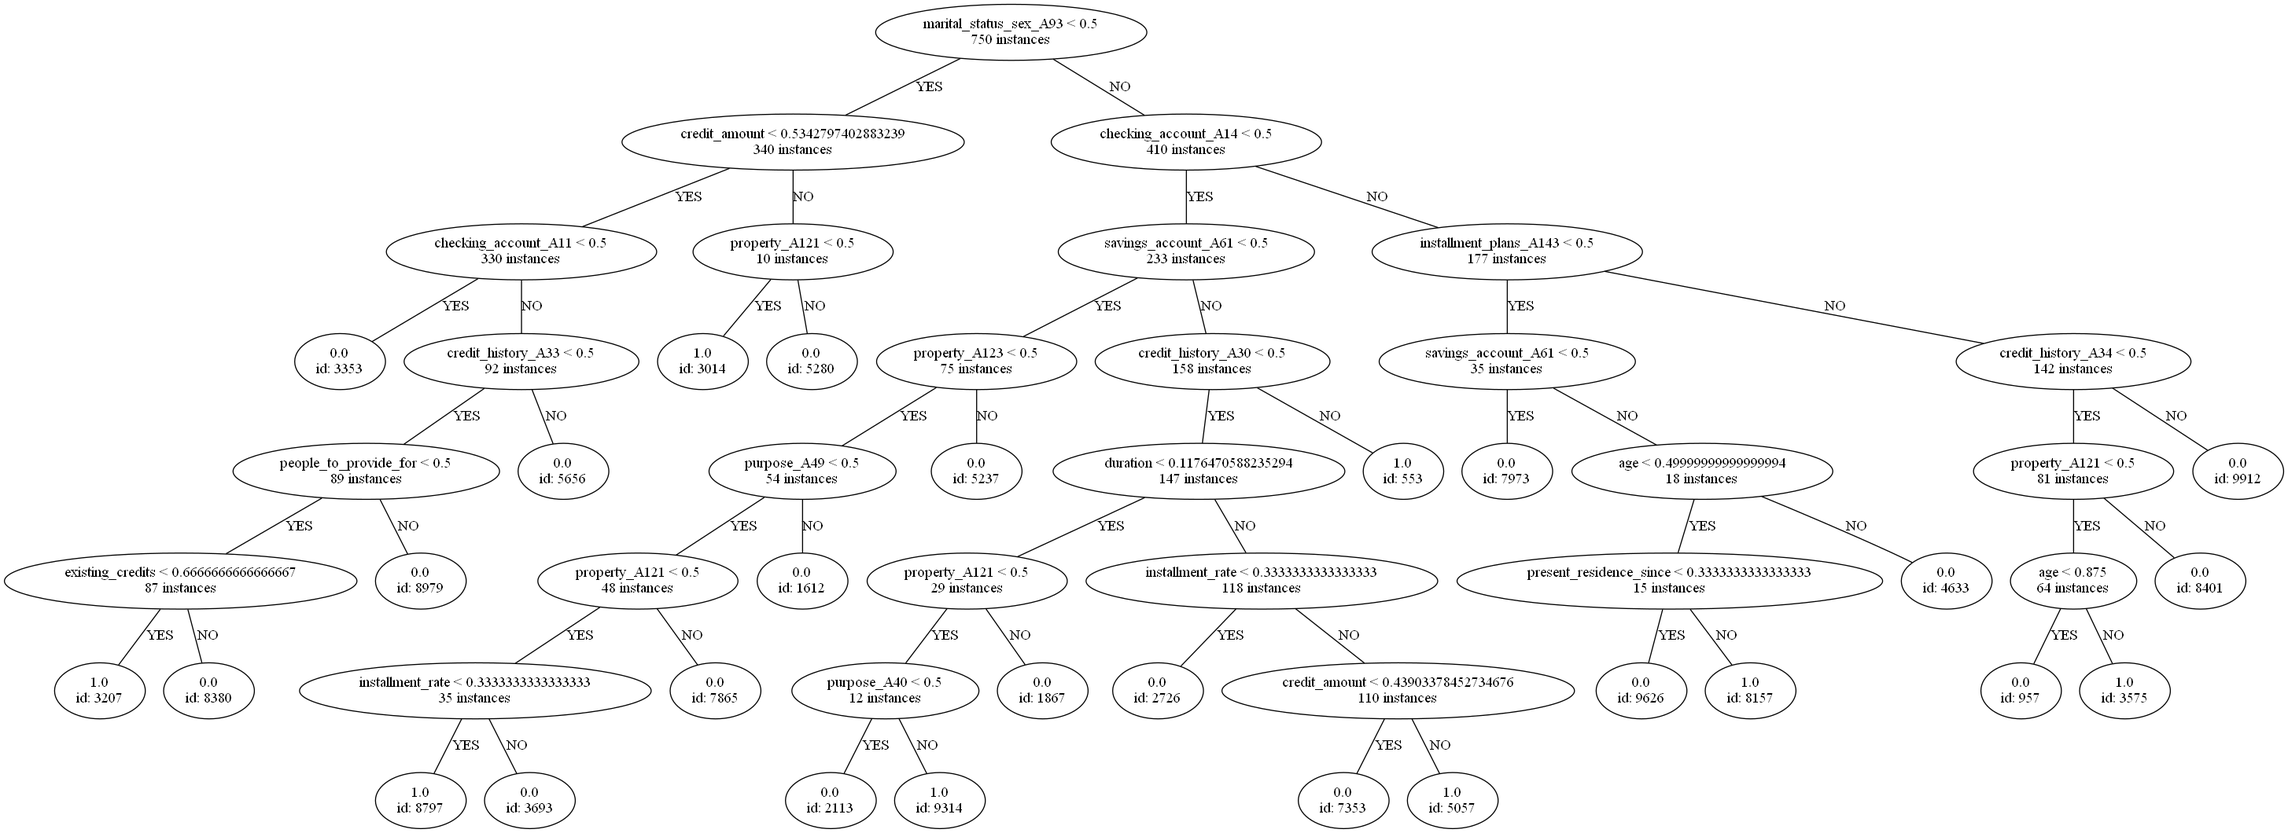
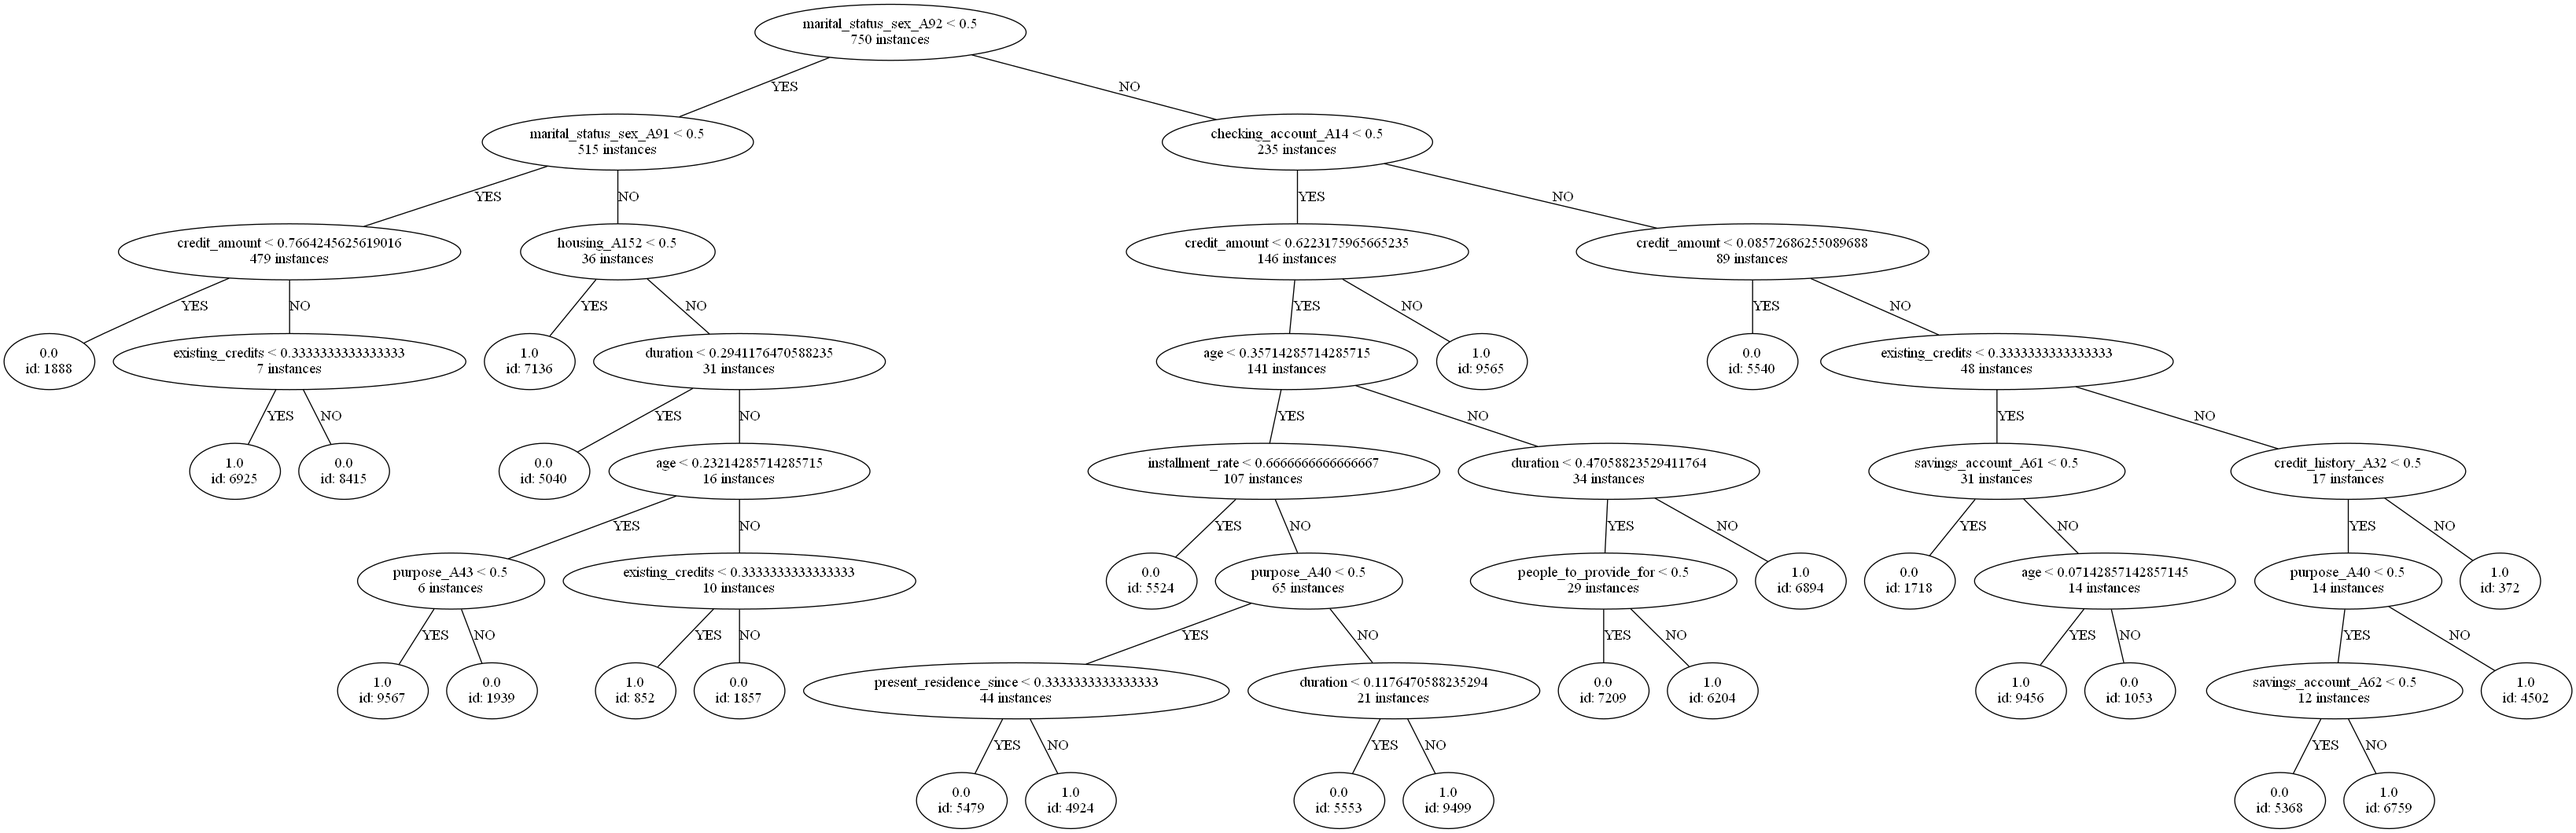
Check bias between single male group against all others for the german dataset

diff --git a/algorithms/decision_tree.py b/algorithms/decision_tree.py
@@ -3,7 +3,7 @@ import numpy as np
 import pydot
 from math import log2
 import copy
-from algorithms.fairness_measures import demographic_parity_marital_status_sex
+from algorithms.fairness_measures import demographic_parity_marital_status_sex_v2
 
 
 class DecisionTree:
@@ -25,7 +25,7 @@ class DecisionTree:
         if score_measure == 'ig':
             current_score = self.calculate_entropy(self.train, class_values)
         elif score_measure == 'fig':
-            current_score = demographic_parity_marital_status_sex(self.train, -1)
+            current_score = demographic_parity_marital_status_sex_v2(self.train, -1)
         variable_importance = z = np.zeros(len(self.train[0]) - 1)
         self.root = self.select_best_feature(self.train, score_measure, current_score, variable_importance, [])
         self.split_node(self.root, 7, 5, 1, score_measure, variable_importance, None, None)
@@ -72,7 +72,19 @@ class DecisionTree:
             weights[i] = weights[i]/float(total_number_instances)
         demographic_parity = 0
         for i in range(0, len(clusters)):
-            demographic_parity = demographic_parity + weights[i] * demographic_parity_marital_status_sex(clusters[i], -1)
+            demographic_parity = demographic_parity + weights[i] * demographic_parity_marital_status_sex_v2(clusters[i], -1)
+        return demographic_parity
+
+    def calculate_demographic_parity_marital_status_sex_clusters_v2(self, clusters):
+        weights = []
+        for i in range(0, len(clusters)):
+            weights.append(len(clusters[i]))
+        total_number_instances = sum(weights)
+        for i in range (0, len(weights)):
+            weights[i] = weights[i]/float(total_number_instances)
+        demographic_parity = 0
+        for i in range(0, len(clusters)):
+            demographic_parity = demographic_parity + weights[i] * demographic_parity_marital_status_sex_v2(clusters[i], -1)
         return demographic_parity
 
     # Calculate the Gini index for a split dataset
@@ -114,7 +126,7 @@ class DecisionTree:
                 if score_measure == 'ig':
                     score = self.calculate_entropy_clusters(clusters, class_values)
                 elif score_measure == 'fig':
-                    demographic_parity = self.calculate_demographic_parity_marital_status_sex_clusters(clusters)
+                    demographic_parity = self.calculate_demographic_parity_marital_status_sex_clusters_v2(clusters)
                     if demographic_parity == 0:
                         score = self.calculate_entropy_clusters(clusters, class_values)
                     else:
@@ -130,7 +142,7 @@ class DecisionTree:
                     if score_measure == 'ig':
                         score = self.calculate_entropy_clusters(clusters, class_values)
                     elif score_measure == 'fig':
-                        demographic_parity = self.calculate_demographic_parity_marital_status_sex_clusters(clusters)
+                        demographic_parity = self.calculate_demographic_parity_marital_status_sex_clusters_v2(clusters)
                         if demographic_parity == 0:
                             score = self.calculate_entropy_clusters(clusters, class_values)
                         else:

diff --git a/algorithms/fairness_measures.py b/algorithms/fairness_measures.py
@@ -64,3 +64,35 @@ def equalized_odds_marital_status_sex(dataset, predicted, target_column):
         'true_positive_parity': abs(true_positive_rate_s1 - true_positive_rate_s2),
         'false_positive_parity': abs(false_positive_rate_s1 - false_positive_rate_s2)
     }
+
+
+def demographic_parity_marital_status_sex_v2(dataset, target_column):
+    s1 = [row for row in dataset if row[38] == 1]  # single male
+    s2 = [row for row in dataset if row[38] == 0]  # others
+    if (not len(s1)) or (not len(s2)):
+        return 0
+    positive_rate_s1 = [row[target_column] for row in s1].count(1) / float(len(s1))
+    positive_rate_s2 = [row[target_column] for row in s2].count(1) / float(len(s2))
+    return abs(positive_rate_s1 - positive_rate_s2)
+
+
+def equalized_odds_marital_status_sex_v2(dataset, predicted, target_column):
+    true_positives = []
+    false_positives = []
+    for i in range(0, len(dataset)):
+        if dataset[i][target_column] == predicted[i] and predicted[i] == 1:
+            true_positives.append(dataset[i])
+        elif dataset[i][target_column] != predicted[i] and predicted[i] == 1:
+            false_positives.append(dataset[i])
+    s1_true_positives = [row for row in true_positives if row[38] == 1]
+    s2_true_positives = [row for row in true_positives if row[38] == 0]
+    s1_false_positives = [row for row in false_positives if row[38] == 1]
+    s2_false_positives = [row for row in false_positives if row[38] == 0]
+    true_positive_rate_s1 = len(s1_true_positives) / float(len(true_positives))
+    true_positive_rate_s2 = len(s2_true_positives) / float(len(true_positives))
+    false_positive_rate_s1 = len(s1_false_positives) / float(len(false_positives))
+    false_positive_rate_s2 = len(s2_false_positives) / float(len(false_positives))
+    return {
+        'true_positive_parity': abs(true_positive_rate_s1 - true_positive_rate_s2),
+        'false_positive_parity': abs(false_positive_rate_s1 - false_positive_rate_s2)
+    }

diff --git a/algorithms/evaluation.py b/algorithms/evaluation.py
@@ -6,7 +6,7 @@ import numpy as np
 import pandas as pd
 
 from algorithms.decision_tree import DecisionTree
-from algorithms.fairness_measures import demographic_parity_marital_status_sex, equalized_odds_marital_status_sex
+from algorithms.fairness_measures import demographic_parity_marital_status_sex_v2, equalized_odds_marital_status_sex_v2
 
 def cross_validation_split(dataset, n_folds):
     dataset_split = list()
@@ -133,14 +133,14 @@ def evaluate_algorithm(train, test, n_folds, *args):
     mean_spec += specificity(cm)
     mean_f1 += f1_score(cm)
     print('Demographic parity test set: ')
-    print(demographic_parity_marital_status_sex(test_set, -1))
+    print(demographic_parity_marital_status_sex_v2(test_set, -1))
     print('Demographic parity predicted set: ')
     predicted_test_set = copy.deepcopy(test_set)
     for i in range(0, len(predicted_test_set)):
         predicted_test_set[i][-1] = predicted[i]
-    print(demographic_parity_marital_status_sex(predicted_test_set, -1))
+    print(demographic_parity_marital_status_sex_v2(predicted_test_set, -1))
     print('Equalized odds: ')
-    print(equalized_odds_marital_status_sex(test_set, predicted, -1))
+    print(equalized_odds_marital_status_sex_v2(test_set, predicted, -1))
     return {
         'error_rate': mean_err,
         # 'oob_error_rate': mean_oob_err / float(len(folds)),
